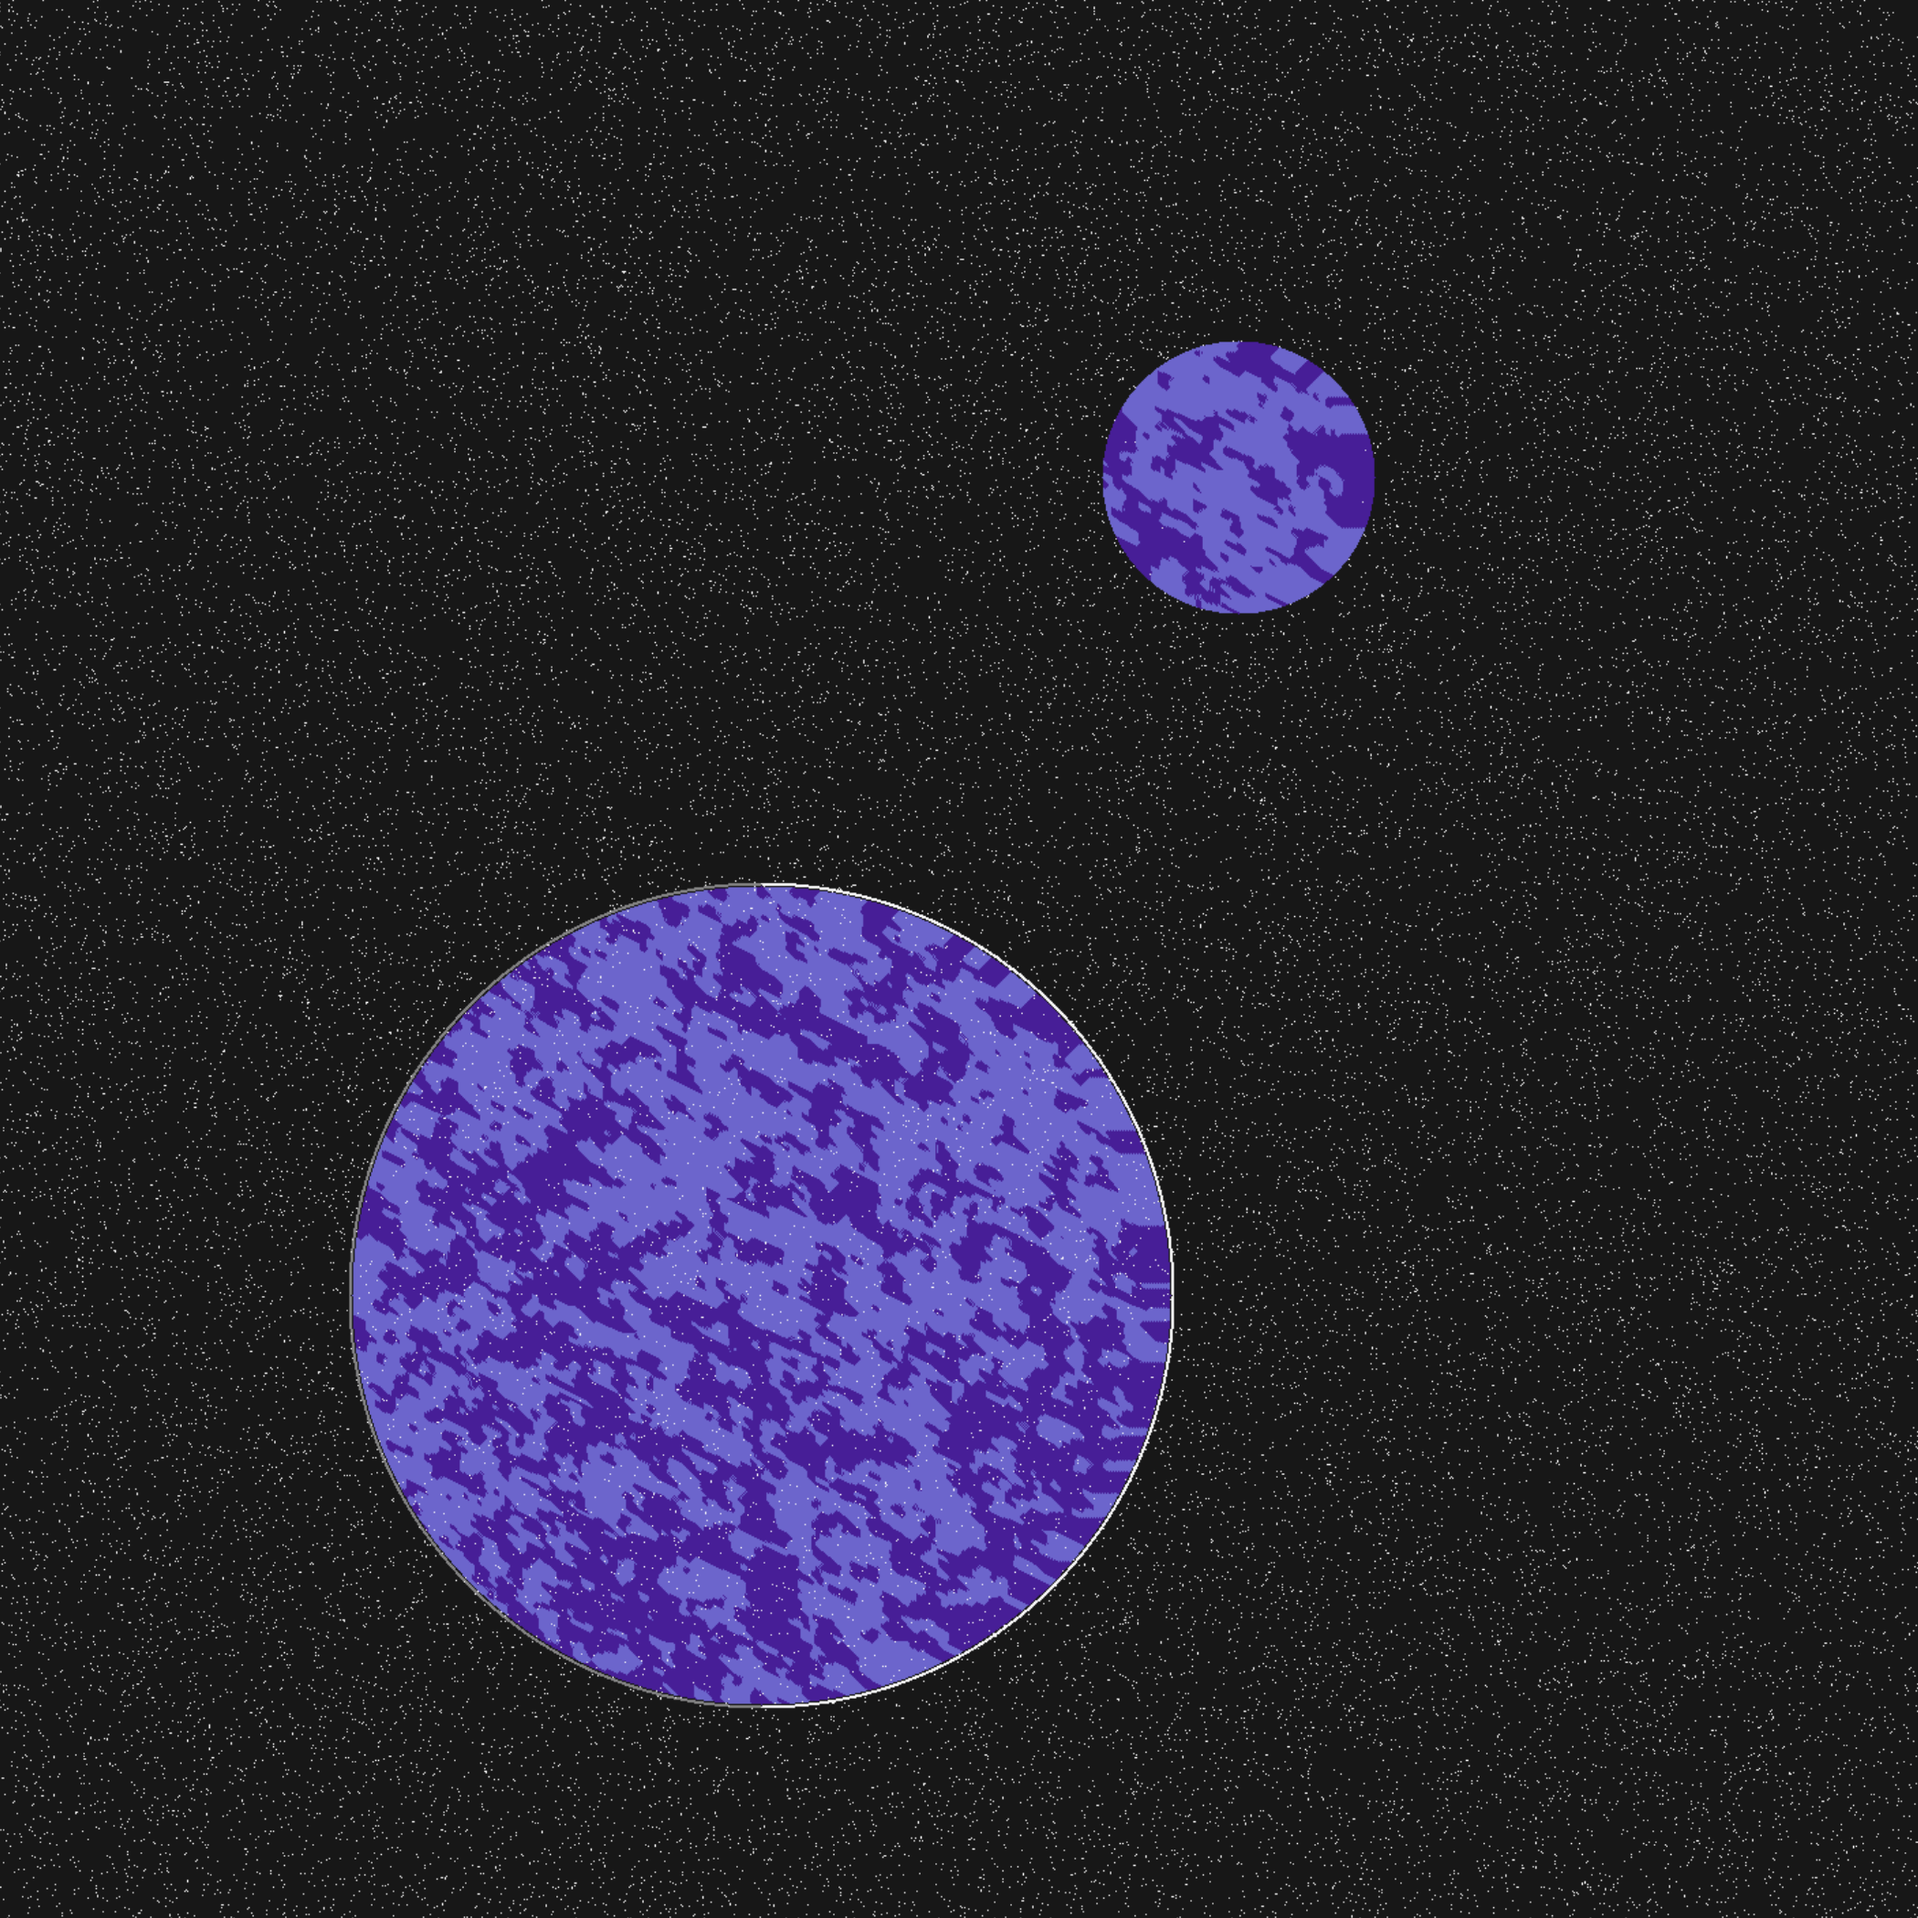
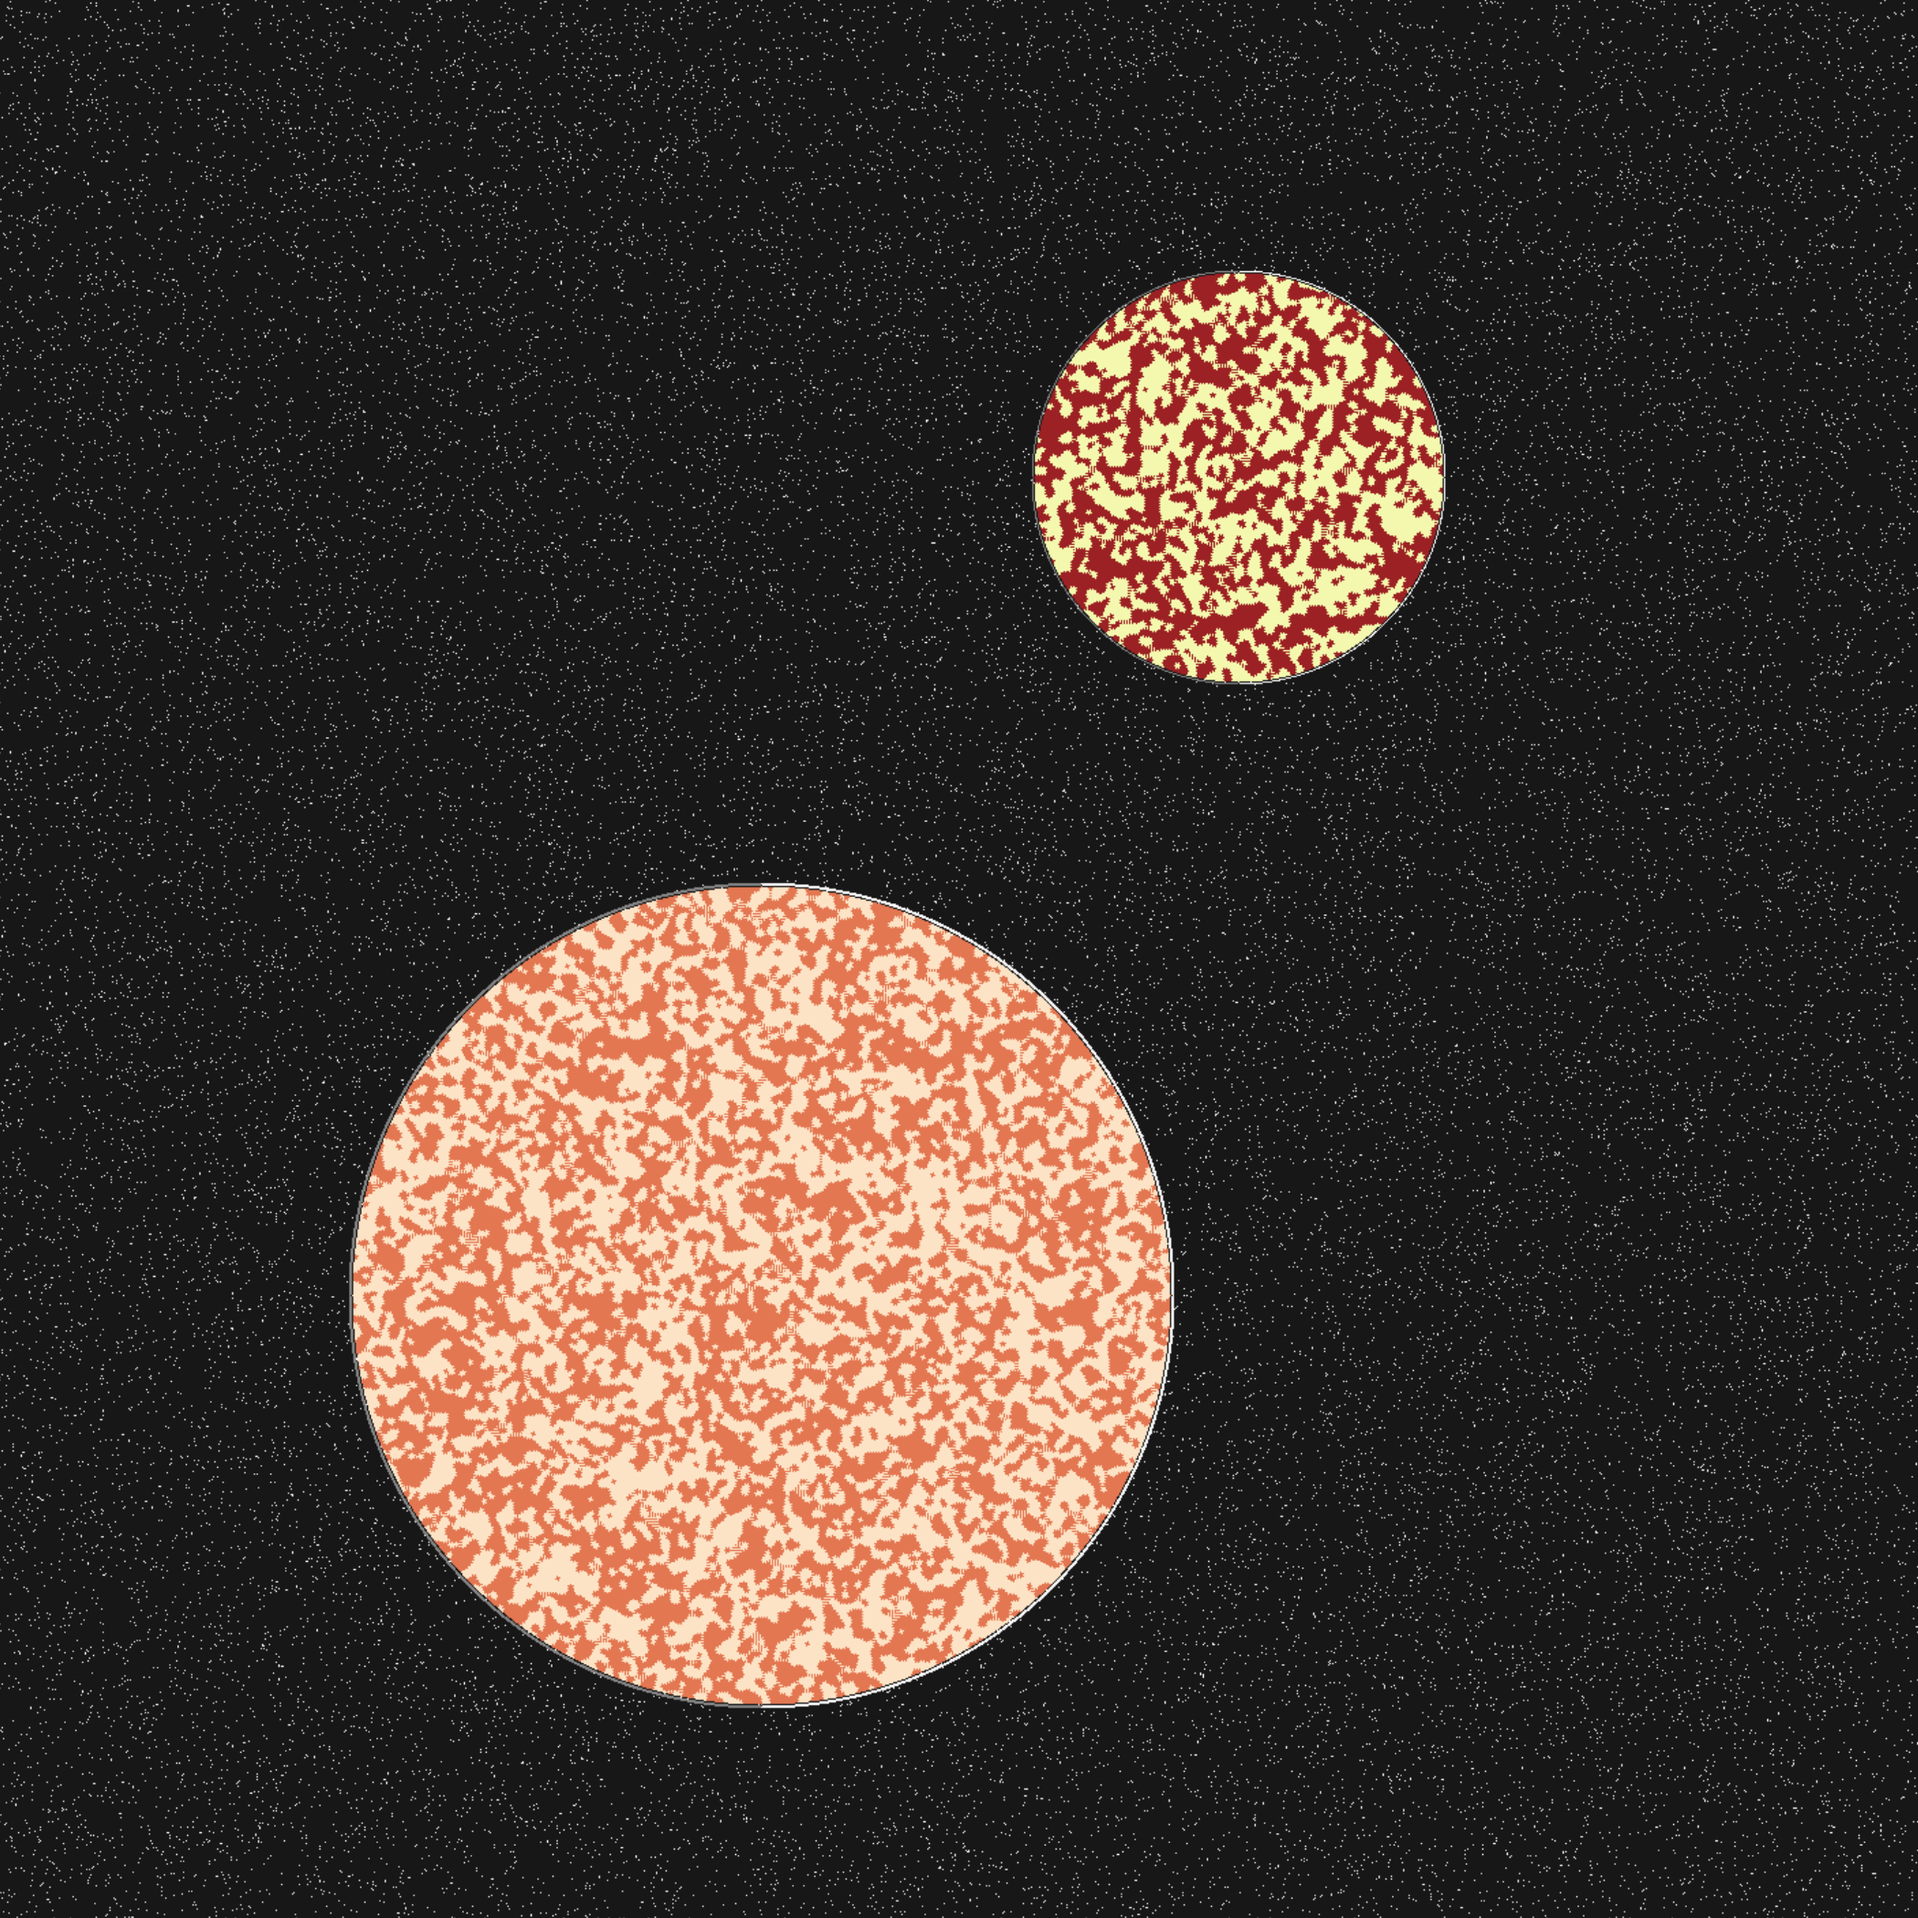
Update

diff --git a/src/paint_planet.cpp b/src/paint_planet.cpp
@@ -51,33 +51,34 @@ arma::mat iterate_planet(arma::mat X,
 		}
 	  } else { // Check if star point
 	    double star = (double) rand() / RAND_MAX;
-		if (star < starprob) {
+		if (star < starprob && X(row, col) == 0) {
           X(row, col) = 2; // Star = white
 		}
 	  }
     }
   }
   // Fill the circle
+  arma::mat X_ref = X;
   for (int i = 0; i < iterations; i++) {
     for (int ii = 0; ii < xcircle.size(); ii++) {
       int xpoint = xcircle[ii];
       int ypoint = ycircle[ii];
       if (ypoint > 0 && ypoint < (m - 1) && xpoint > 0 && xpoint < (n - 1)) {
-        int level = X(ypoint, xpoint); // Get the current level 
+        int level = X_ref(ypoint, xpoint); // Get the current level 
 		int newlevel = level + 1;
 		if (newlevel == (ncolors + colorsused)) {
 			newlevel = 3 + colorsused;
 		}
         //int newlevel = ((level + 1) % (ncolors - 1)) + 3; // New level can be 3 to ncolors
         int higherlevels = 0;
-        if (X(ypoint - 1, xpoint) == newlevel)     higherlevels++;
-        if (X(ypoint + 1, xpoint) == newlevel)     higherlevels++;
-        if (X(ypoint - 1, xpoint - 1) == newlevel) higherlevels++;
-        if (X(ypoint, xpoint - 1) == newlevel)     higherlevels++;
-        if (X(ypoint + 1, xpoint - 1) == newlevel) higherlevels++;
-        if (X(ypoint - 1, xpoint + 1) == newlevel) higherlevels++;
-        if (X(ypoint, xpoint + 1) == newlevel)     higherlevels++;
-        if (X(ypoint + 1, xpoint + 1) == newlevel) higherlevels++;
+        if (X_ref(ypoint - 1, xpoint) == newlevel)     higherlevels++;
+        if (X_ref(ypoint + 1, xpoint) == newlevel)     higherlevels++;
+        if (X_ref(ypoint - 1, xpoint - 1) == newlevel) higherlevels++;
+        if (X_ref(ypoint, xpoint - 1) == newlevel)     higherlevels++;
+        if (X_ref(ypoint + 1, xpoint - 1) == newlevel) higherlevels++;
+        if (X_ref(ypoint - 1, xpoint + 1) == newlevel) higherlevels++;
+        if (X_ref(ypoint, xpoint + 1) == newlevel)     higherlevels++;
+        if (X_ref(ypoint + 1, xpoint + 1) == newlevel) higherlevels++;
         if (higherlevels >= threshold) {
           X(ypoint, xpoint) = newlevel;
         } else {
@@ -85,6 +86,7 @@ arma::mat iterate_planet(arma::mat X,
         }
       }
     }
+	X_ref = X;
   }
   return X;
 };
